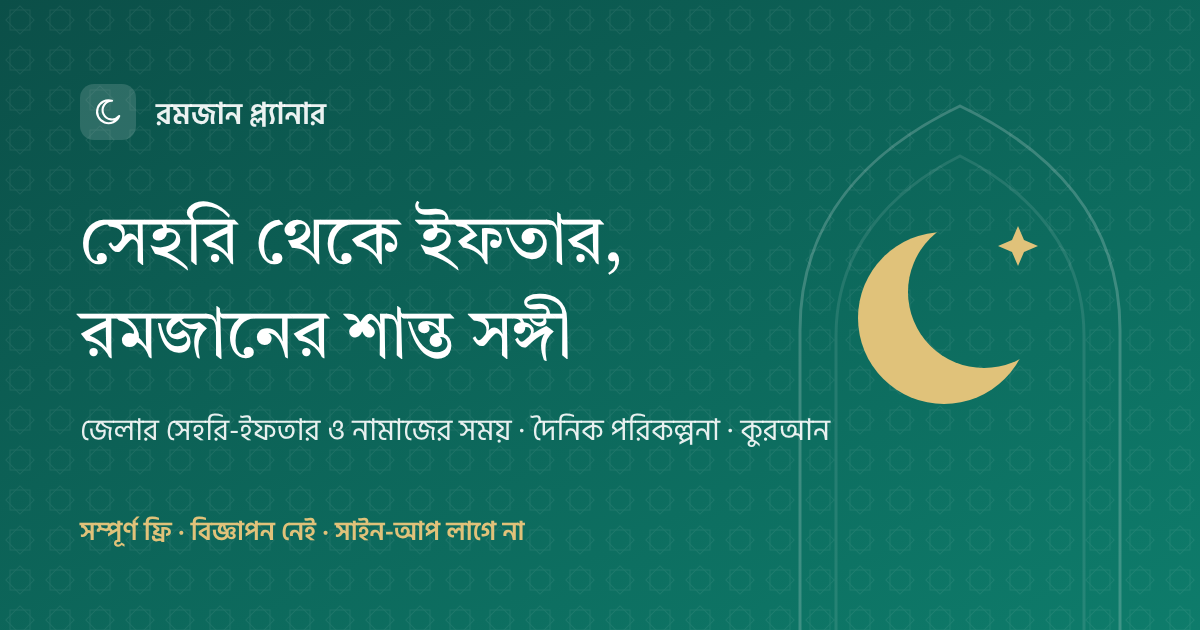
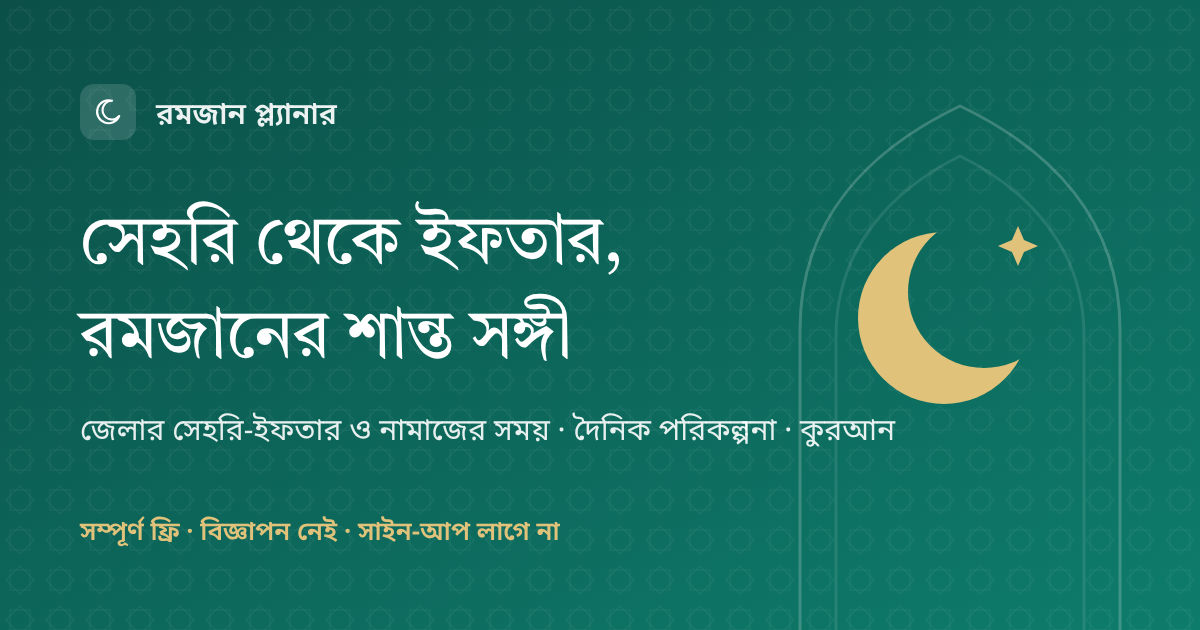
chore(brand): render og.png with Noto Sans Bengali
The brand-asset script used the removed Hind Siliguri package; it now
embeds Noto Sans Bengali for "RP Sans". og.png is regenerated (the icons
came out byte-identical) and OG_IMAGE_PATH moves to ?v=3.

Claude-Session: https://claude.ai/code/session_01R2svZ5AMFKKtLeKn6thQm3

Changed region(s): [[0.0617, 0.6333, 0.7708, 0.7238], [0.0617, 0.8143, 0.4625, 0.8746], [0.1233, 0.1508, 0.2775, 0.2111]]

diff --git a/src/lib/seo.test.ts b/src/lib/seo.test.ts
@@ -23,7 +23,7 @@ describe("pageHead", () => {
     expect(h.meta[0]).toEqual({ title: "Quran — Ramadan Planner" });
     expect(h.links).toEqual([{ rel: "canonical", href: "https://x.test/quran" }]);
     expect(get(h, "property", "og:url")[0].content).toBe("https://x.test/quran");
-    expect(get(h, "property", "og:image")[0].content).toBe("https://x.test/og.png?v=2");
+    expect(get(h, "property", "og:image")[0].content).toBe("https://x.test/og.png?v=3");
     expect(get(h, "name", "twitter:card")[0].content).toBe("summary_large_image");
   });
 
@@ -75,7 +75,7 @@ describe("JSON-LD", () => {
       name: "Ramadan Planner",
       description: "Plan.",
       url: "https://x.test",
-      image: "https://x.test/og.png?v=2",
+      image: "https://x.test/og.png?v=3",
       inLanguage: ["bn", "en"],
     });
   });

diff --git a/src/server/seo-indexable.test.ts b/src/server/seo-indexable.test.ts
@@ -80,7 +80,7 @@ describe("surah page head", () => {
     expect(last("property", "og:site_name")?.content).toBe("Ramadan Planner");
     expect(last("property", "og:type")?.content).toBe("website");
     expect(last("property", "og:url")?.content).toBe(`${SITE}/quran/2`);
-    expect(last("property", "og:image")?.content).toBe(`${SITE}/og.png?v=2`);
+    expect(last("property", "og:image")?.content).toBe(`${SITE}/og.png?v=3`);
     expect(last("name", "description")?.content).toBe("সূরা 2 (Surah 2) — 7 আয়াত");
   });
 });

diff --git a/src/lib/seo.ts b/src/lib/seo.ts
@@ -18,7 +18,7 @@ export function msg(root: RootData, ns: string, key: string, fallback = ""): str
 
 // The version query busts social-network caches of the old image; bump it whenever public/og.png changes
 // (scripts/generate-brand-assets.mjs).
-export const OG_IMAGE_PATH = "/og.png?v=2";
+export const OG_IMAGE_PATH = "/og.png?v=3";
 
 type PageHeadOptions = {
   matches: readonly MatchLike[];
